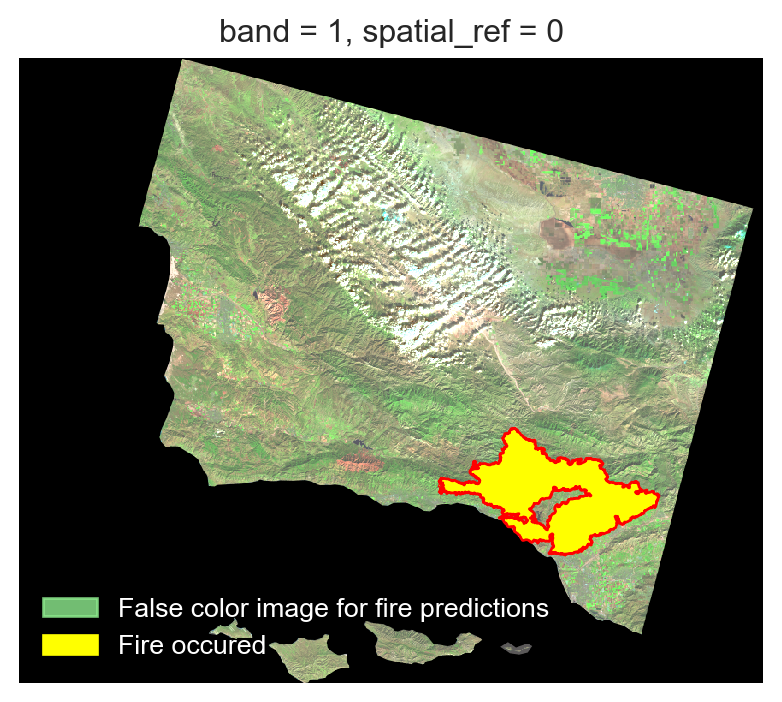
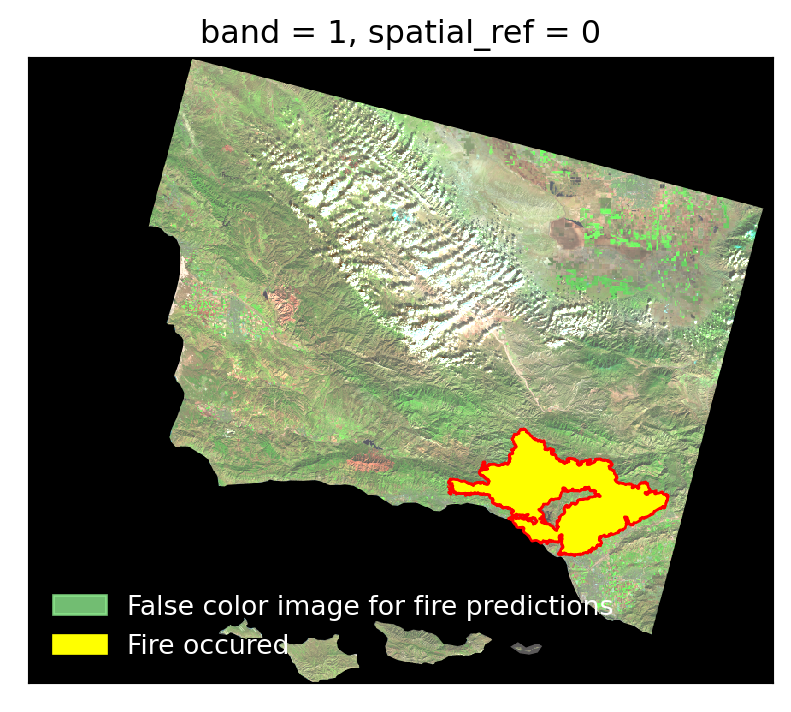
changes made with list

Changed region(s): [[0.0, 0.0299, 0.9821, 0.9872]]

diff --git a/docs/posts/False_color_analysis/index.html b/docs/posts/False_color_analysis/index.html
@@ -265,7 +265,23 @@ For this blog, I opted to utilize the base environment of Python3 to avoid the n
 <span id="cb1-13"><a href="#cb1-13" aria-hidden="true" tabindex="-1"></a><span class="im">from</span> matplotlib.widgets <span class="im">import</span> Button</span>
 <span id="cb1-14"><a href="#cb1-14" aria-hidden="true" tabindex="-1"></a><span class="im">from</span> tabulate <span class="im">import</span> tabulate</span></code><button title="Copy to Clipboard" class="code-copy-button"><i class="bi"></i></button></pre></div>
 </div>
-<p>The downloaded raster image stores five bands of wavelengths : red, green, blue, near infrared, and shortwave. The near infrared, shortwave and red bands will be used in detection of fire plumes. Likewise, the california fire information is downloaded from California state goverment website, which stores information about fire event around california, Santa Barbara.</p>
+<p>The downloaded raster image stores five bands of wavelengths : red, green, blue, near infrared, and shortwave. The near infrared, shortwave and red bands will be used in detection of fire plumes. Likewise, the california fire information is downloaded from California state goverment website, which stores information about fire event around california, Santa Barbara. The link to data sources are:</p>
+<p>## Data Citation</p>
+<ul>
+<li><strong>False Color Raster Image:</strong>
+<ul>
+<li>Retrieved from the <a href="https://planetarycomputer.microsoft.com/catalog">Microsoft Planetary Computer catalog</a>.</li>
+</ul></li>
+<li><strong>California Shapefile:</strong>
+<ul>
+<li>Downloaded from <a href="https://gis.data.ca.gov/datasets/CALFIRE-Forestry::california-fire-perimeters-all-1/about">California State GIS Data</a>.</li>
+</ul></li>
+<li><strong>Air Quality Data:</strong>
+<ul>
+<li><a href="https://aqs.epa.gov/aqsweb/airdata/daily_aqi_by_county_2017.zip">2017 Daily AQI Data</a></li>
+<li><a href="https://aqs.epa.gov/aqsweb/airdata/daily_aqi_by_county_2018.zip">2018 Daily AQI Data</a></li>
+</ul></li>
+</ul>
 <div class="cell" data-execution_count="2">
 <div class="sourceCode cell-code" id="cb2"><pre class="sourceCode python code-with-copy"><code class="sourceCode python"><span id="cb2-1"><a href="#cb2-1" aria-hidden="true" tabindex="-1"></a><span class="co">##set the directory for the data</span></span>
 <span id="cb2-2"><a href="#cb2-2" aria-hidden="true" tabindex="-1"></a>data_path <span class="op">=</span> os.path.join(os.getcwd(), <span class="st">"data/landsat8-2018-01-26-sb-simplified.nc"</span>)</span>
@@ -276,7 +292,7 @@ For this blog, I opted to utilize the base environment of Python3 to avoid the n
 <span id="cb2-7"><a href="#cb2-7" aria-hidden="true" tabindex="-1"></a></span>
 <span id="cb2-8"><a href="#cb2-8" aria-hidden="true" tabindex="-1"></a>fire <span class="op">=</span> gpd.read_file(<span class="st">"data/California_Fire_Perimeters_2017/California_Fire_Perimeters_2017.shp"</span>)</span>
 <span id="cb2-9"><a href="#cb2-9" aria-hidden="true" tabindex="-1"></a>fire.describe()</span></code><button title="Copy to Clipboard" class="code-copy-button"><i class="bi"></i></button></pre></div>
-<div class="cell-output cell-output-display" data-execution_count="76">
+<div class="cell-output cell-output-display" data-execution_count="2">
 <div>
 
 
@@ -460,7 +476,7 @@ Coordinates:
 <span id="cb6-19"><a href="#cb6-19" aria-hidden="true" tabindex="-1"></a>ax.get_xaxis().set_visible(<span class="va">False</span>) <span class="co">#remove xaxis label</span></span>
 <span id="cb6-20"><a href="#cb6-20" aria-hidden="true" tabindex="-1"></a>ax.get_yaxis().set_visible(<span class="va">False</span>) <span class="co">#remove yaxis label</span></span></code><button title="Copy to Clipboard" class="code-copy-button"><i class="bi"></i></button></pre></div>
 <div class="cell-output cell-output-display">
-<p><img src="index_files/figure-html/cell-6-output-1.png" width="391" height="351"></p>
+<p><img src="index_files/figure-html/cell-6-output-1.png" width="396" height="356"></p>
 </div>
 </div>
 <p>

diff --git a/docs/posts.html b/docs/posts.html
@@ -193,7 +193,7 @@ Sujan Bhattarai
 </div>
 </a>
 </div>
-<div class="g-col-1" data-index="1" data-categories="Python" data-listing-date-sort="1672531200000" data-listing-file-modified-sort="1702441650297" data-listing-date-modified-sort="NaN" data-listing-reading-time-sort="9">
+<div class="g-col-1" data-index="1" data-categories="Python" data-listing-date-sort="1672531200000" data-listing-file-modified-sort="1702442168602" data-listing-date-modified-sort="NaN" data-listing-reading-time-sort="9">
 <a href="./posts/False_color_analysis/index.html" class="quarto-grid-link">
 <div class="quarto-grid-item card h-100 card-left">
 <p class="card-img-top"><img src="https://www.universetoday.com/wp-content/uploads/2007/10/2007-1001marsrock1.jpg" alt="False Color image comparison" style="height: 150px;"  class="thumbnail-image card-img"/></p>

diff --git a/docs/projects.html b/docs/projects.html
@@ -199,7 +199,7 @@ Sujan Bhattarai
 </a>
 </div>
 </div>
-<div class="quarto-post image-right" data-index="1" data-categories="Python" data-listing-date-sort="1672531200000" data-listing-file-modified-sort="1702441650297" data-listing-date-modified-sort="NaN" data-listing-reading-time-sort="9">
+<div class="quarto-post image-right" data-index="1" data-categories="Python" data-listing-date-sort="1672531200000" data-listing-file-modified-sort="1702442168602" data-listing-date-modified-sort="NaN" data-listing-reading-time-sort="9">
 <div class="thumbnail">
 <p><a href="./posts/False_color_analysis/index.html"> <p class="card-img-top"><img src="https://www.universetoday.com/wp-content/uploads/2007/10/2007-1001marsrock1.jpg" alt="False Color image comparison"  class="thumbnail-image card-img"/></p> </a></p>
 </div>
